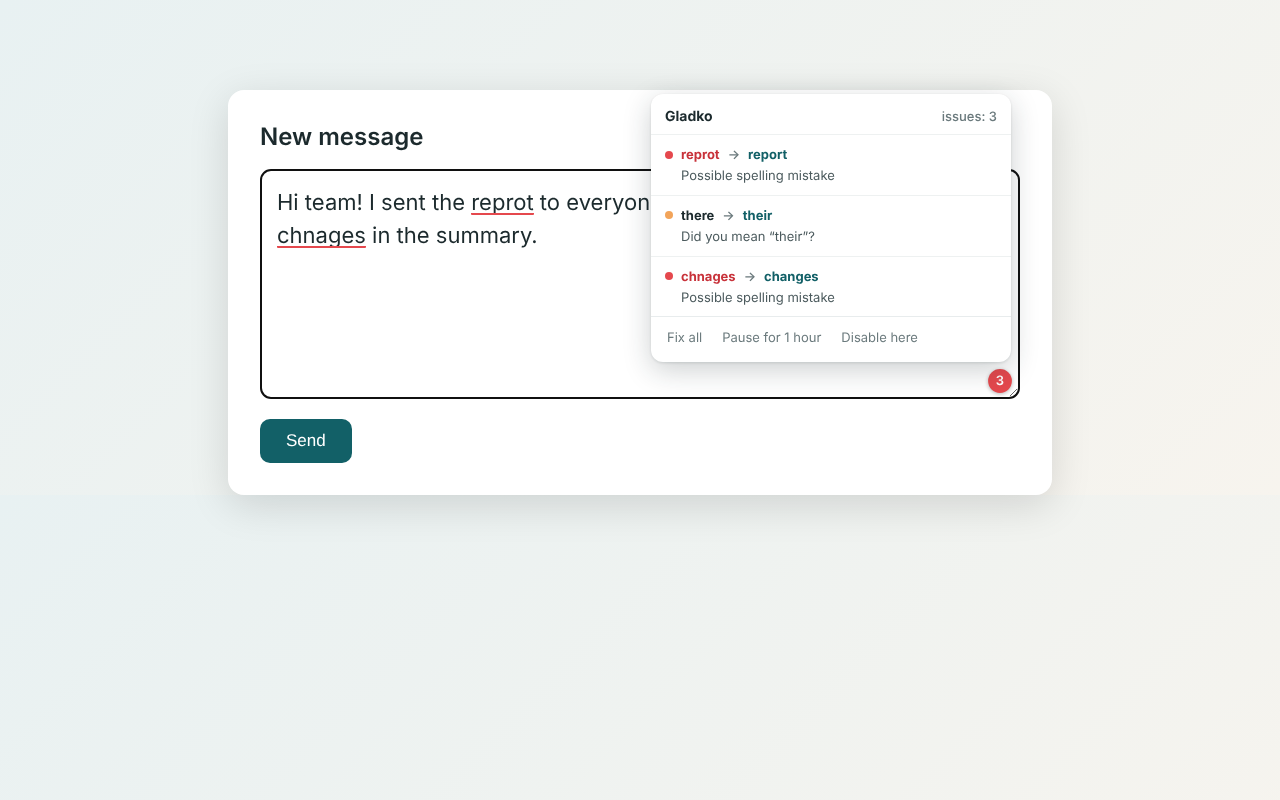
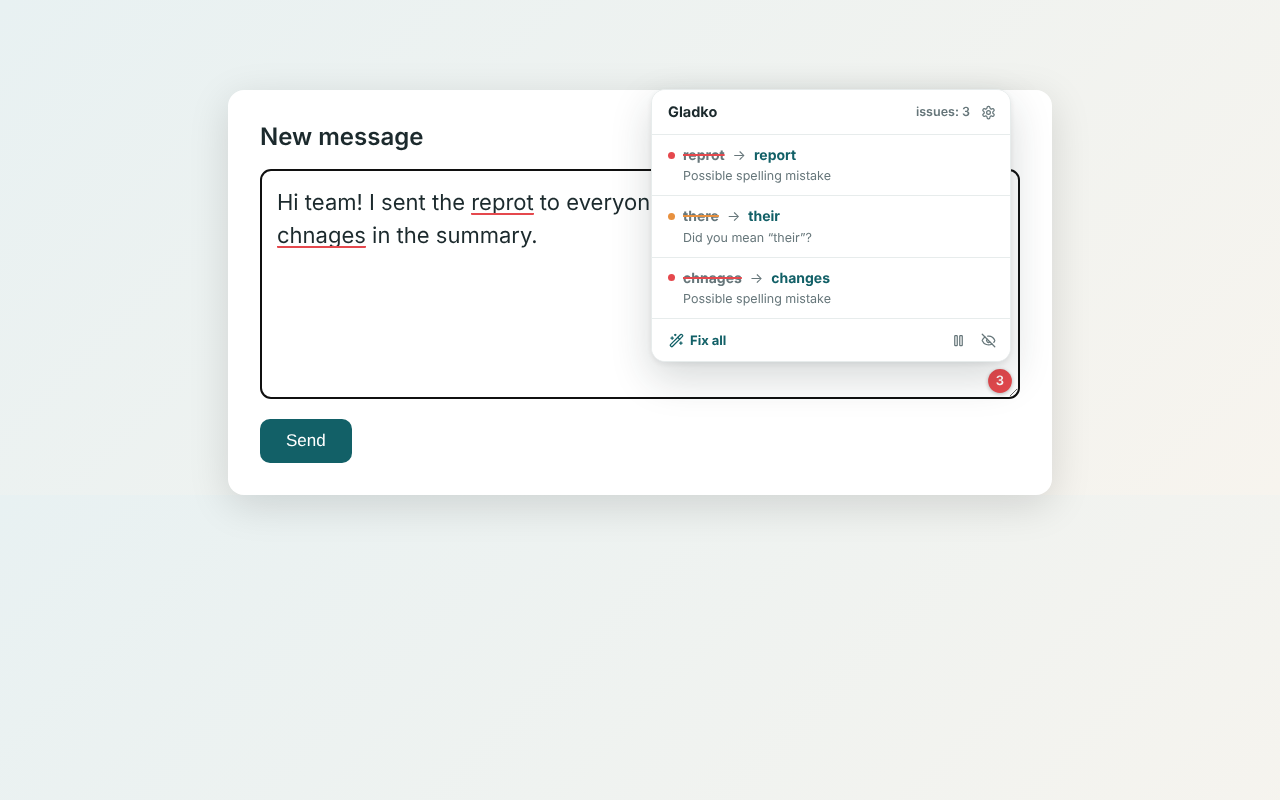
Redesign in-page suggestion card and issues panel
Struck-through mistake with a prominent fix, alternatives listed separately,
coloured issue-type tag and accent strip, close button, Lucide icons,
compact panel footer, dark theme. Exclude SVG internals from the CSS reset.

Claude-Session: https://claude.ai/code/session_01MjzGZ8b5WNkhgQCuEtsLyZ

diff --git a/src/content.css b/src/content.css
@@ -1,5 +1,6 @@
 /* Everything lives under .gl-host and is reset first, so page styles can't leak in. */
-.gl-host, .gl-host * { all: unset; box-sizing: border-box; }
+/* SVG internals are excluded: in SVG2 `d`, `r`, `cx`… are CSS properties and `all: unset` would erase the icons. */
+.gl-host, .gl-host *:not(svg):not(svg *) { all: unset; box-sizing: border-box; }
 .gl-host { position: fixed !important; left: 0 !important; top: 0 !important; width: 0 !important; height: 0 !important; z-index: 2147483647 !important; pointer-events: none !important; }
 
 .gl-host .gl-mirror { position: absolute; visibility: hidden; overflow: hidden; display: block; }
@@ -23,52 +24,85 @@
 .gl-host .gl-badge svg { display: block; width: 12px; height: 12px; }
 @keyframes gl-spin { to { transform: rotate(360deg); } }
 
-/* card + panel */
-.gl-host .gl-card, .gl-host .gl-panel { position: absolute; display: block; pointer-events: auto; background: #fff; color: #1c2a2d; border-radius: 12px; box-shadow: 0 8px 28px rgba(28, 42, 45, .22), 0 1px 3px rgba(28, 42, 45, .12); font: 14px/1.45 system-ui, -apple-system, "Segoe UI", sans-serif; animation: gl-in .12s ease-out; }
-.gl-host .gl-card { width: 320px; padding: 12px 14px 0; }
-.gl-host .gl-panel { width: 360px; max-height: 380px; overflow-y: auto; padding: 4px 0; }
-@keyframes gl-in { from { opacity: 0; transform: translateY(-4px); } }
-
-.gl-host .gl-head { display: flex; align-items: center; gap: 8px; font-size: 11px; font-weight: 600; letter-spacing: .04em; text-transform: uppercase; color: #6b7a7d; }
-.gl-host .gl-dot { display: block; width: 8px; height: 8px; border-radius: 50%; flex: none; }
-.gl-host .gl-dot.gl-spell { background: #e5484d; }
-.gl-host .gl-dot.gl-grammar { background: #f2a45a; }
-.gl-host .gl-dot.gl-style { background: #3e8ed0; }
-.gl-host .gl-msg { display: block; margin: 6px 0 10px; }
-.gl-host .gl-sugs { display: flex; flex-wrap: wrap; gap: 6px; margin-bottom: 12px; }
-.gl-host .gl-sug { display: inline-block; padding: 5px 12px; border-radius: 8px; border: 1px solid #c9dcdd; background: #f1f7f7; color: #126067; font-weight: 600; cursor: pointer; transition: background-color .1s, color .1s; }
-.gl-host .gl-sug:hover { background: #126067; border-color: #126067; color: #fff; }
-.gl-host .gl-sug.gl-main { background: #126067; border-color: #126067; color: #fff; }
-.gl-host .gl-sug.gl-main:hover { background: #0d4a50; }
-.gl-host .gl-none { display: block; color: #6b7a7d; font-size: 13px; margin-bottom: 12px; }
-.gl-host .gl-foot { display: flex; gap: 4px; margin: 0 -14px; padding: 6px 8px; border-top: 1px solid #e8eced; }
-.gl-host .gl-link { display: inline-flex; align-items: center; gap: 6px; padding: 5px 8px; border-radius: 6px; color: #6b7a7d; font-size: 13px; cursor: pointer; }
-.gl-host .gl-link:hover { background: #f1f4f4; color: #1c2a2d; }
-.gl-host .gl-link svg { display: block; width: 14px; height: 14px; }
-
-.gl-host .gl-ptitle { display: flex; align-items: center; justify-content: space-between; padding: 8px 14px; font-weight: 700; }
-.gl-host .gl-ptitle span { display: inline; font-weight: 500; color: #6b7a7d; font-size: 13px; }
-.gl-host .gl-item { display: block; padding: 10px 14px; border-top: 1px solid #eef1f1; cursor: pointer; }
-.gl-host .gl-item:hover { background: #f7f9f9; }
-.gl-host .gl-item .gl-head { text-transform: none; letter-spacing: 0; font-size: 13px; color: #1c2a2d; }
-.gl-host .gl-item .gl-word { display: inline; font-weight: 700; }
-.gl-host .gl-item .gl-word.gl-spell { color: #c8323a; }
-.gl-host .gl-item .gl-arrow { display: inline; color: #6b7a7d; }
-.gl-host .gl-item .gl-fix { display: inline; font-weight: 700; color: #126067; }
-.gl-host .gl-item .gl-msg { margin: 2px 0 0 16px; font-size: 13px; color: #4b5a5d; }
-.gl-host .gl-empty { display: block; padding: 18px 14px; color: #6b7a7d; text-align: center; }
-
-@media (prefers-color-scheme: dark) {
-  .gl-host .gl-card, .gl-host .gl-panel { background: #1f2b2e; color: #e6eeef; box-shadow: 0 8px 28px rgba(0, 0, 0, .5); }
-  .gl-host .gl-sug { background: #24393c; border-color: #2f4c50; color: #8fd0d5; }
-  .gl-host .gl-foot, .gl-host .gl-item { border-color: #2c3a3d; }
-  .gl-host .gl-link:hover, .gl-host .gl-item:hover { background: #26363a; color: #e6eeef; }
-  .gl-host .gl-item .gl-head { color: #e6eeef; }
-  .gl-host .gl-item .gl-msg { color: #a9b7ba; }
-  .gl-host .gl-item .gl-fix { color: #8fd0d5; }
+/* ---------- design tokens ---------- */
+.gl-host {
+  --gl-bg: #ffffff; --gl-ink: #1c2a2d; --gl-muted: #66767a; --gl-line: #e7ecec; --gl-soft: #f3f6f6;
+  --gl-brand: #126067; --gl-brand-hover: #0d4a50; --gl-brand-soft: #e2f0f0; --gl-brand-text: #126067;
+  --gl-spell: #e5484d; --gl-grammar: #e8913f; --gl-style: #3e8ed0;
+  --gl-spell-soft: #fdecec; --gl-grammar-soft: #fdf1e4; --gl-style-soft: #e8f2fb;
+  --gl-shadow: 0 16px 40px rgba(28, 42, 45, .18), 0 2px 6px rgba(28, 42, 45, .08);
 }
-.gl-host .gl-panel .gl-foot { margin: 0; flex-wrap: wrap; }
-.gl-host .gl-ptitle .gl-pright { display: inline-flex; align-items: center; gap: 10px; }
-.gl-host .gl-ptitle .gl-gear { display: inline-grid; place-items: center; width: 24px; height: 24px; border-radius: 6px; font-size: 15px; color: #6b7a7d; cursor: pointer; }
-.gl-host .gl-ptitle .gl-gear:hover { background: #f1f4f4; color: #1c2a2d; }
-@media (prefers-color-scheme: dark) { .gl-host .gl-ptitle .gl-gear:hover { background: #26363a; color: #e6eeef; } }
+@media (prefers-color-scheme: dark) {
+  .gl-host {
+    --gl-bg: #1b2528; --gl-ink: #e6eeef; --gl-muted: #9fb0b3; --gl-line: #2c3a3d; --gl-soft: #233033;
+    --gl-brand: #2b8c94; --gl-brand-hover: #35a2ab; --gl-brand-soft: #173a3d; --gl-brand-text: #7fd0d6;
+    --gl-spell: #ff6b6f; --gl-grammar: #f2a45a; --gl-style: #6aaee6;
+    --gl-spell-soft: #3d2022; --gl-grammar-soft: #3a2c1c; --gl-style-soft: #1c2f40;
+    --gl-shadow: 0 16px 40px rgba(0, 0, 0, .5), 0 2px 6px rgba(0, 0, 0, .3);
+  }
+}
+
+/* icons (Lucide) */
+.gl-host svg.gl-i { display: block; width: 15px; height: 15px; flex: none; fill: none; stroke: currentColor; stroke-width: 2; stroke-linecap: round; stroke-linejoin: round; }
+
+/* ---------- card + panel shell ---------- */
+.gl-host .gl-card, .gl-host .gl-panel { position: absolute; display: block; pointer-events: auto; background: var(--gl-bg); color: var(--gl-ink); border-radius: 14px; border: 1px solid var(--gl-line); box-shadow: var(--gl-shadow); font: 14px/1.45 system-ui, -apple-system, "Segoe UI", Roboto, sans-serif; animation: gl-in .14s cubic-bezier(.2, .8, .3, 1); overflow: hidden; }
+@keyframes gl-in { from { opacity: 0; transform: translateY(-6px) scale(.98); } }
+
+/* ---------- suggestion card ---------- */
+.gl-host .gl-card { width: 312px; }
+.gl-host .gl-card::before { content: ""; position: absolute; left: 0; top: 0; bottom: 0; width: 3px; background: var(--gl-spell); }
+.gl-host .gl-card.gl-grammar::before { background: var(--gl-grammar); }
+.gl-host .gl-card.gl-style::before { background: var(--gl-style); }
+
+.gl-host .gl-head { display: flex; align-items: center; gap: 8px; padding: 10px 10px 0 16px; }
+.gl-host .gl-spacer { display: block; flex: 1; }
+.gl-host .gl-tag { display: inline-flex; align-items: center; gap: 6px; height: 22px; padding: 0 9px; border-radius: 999px; font-size: 11.5px; font-weight: 700; letter-spacing: .02em; background: var(--gl-spell-soft); color: var(--gl-spell); }
+.gl-host .gl-tag.gl-grammar { background: var(--gl-grammar-soft); color: var(--gl-grammar); }
+.gl-host .gl-tag.gl-style { background: var(--gl-style-soft); color: var(--gl-style); }
+.gl-host .gl-dot { display: block; width: 7px; height: 7px; border-radius: 50%; flex: none; background: var(--gl-spell); }
+.gl-host .gl-dot.gl-grammar { background: var(--gl-grammar); }
+.gl-host .gl-dot.gl-style { background: var(--gl-style); }
+.gl-host .gl-icon-btn { display: inline-grid; place-items: center; width: 28px; height: 28px; border-radius: 8px; color: var(--gl-muted); cursor: pointer; transition: background-color .12s, color .12s; }
+.gl-host .gl-icon-btn:hover { background: var(--gl-soft); color: var(--gl-ink); }
+
+.gl-host .gl-body { display: block; padding: 10px 16px 14px; }
+.gl-host .gl-fixline { display: flex; align-items: center; flex-wrap: wrap; gap: 10px; }
+.gl-host .gl-wrong { display: inline; font-size: 16px; font-weight: 600; color: var(--gl-muted); text-decoration: line-through; text-decoration-color: var(--gl-spell); text-decoration-thickness: 2px; }
+.gl-host .gl-wrong.gl-grammar { text-decoration-color: var(--gl-grammar); }
+.gl-host .gl-wrong.gl-style { text-decoration-color: var(--gl-style); }
+.gl-host .gl-to { display: inline; color: var(--gl-muted); font-size: 15px; }
+.gl-host .gl-msg { display: block; margin-top: 8px; color: var(--gl-muted); font-size: 13px; }
+.gl-host .gl-alt { display: block; margin: 12px 0 6px; font-size: 11.5px; font-weight: 700; letter-spacing: .04em; text-transform: uppercase; color: var(--gl-muted); }
+.gl-host .gl-sugs { display: flex; flex-wrap: wrap; gap: 6px; }
+.gl-host .gl-sug { display: inline-flex; align-items: center; height: 32px; padding: 0 12px; border-radius: 9px; border: 1px solid var(--gl-line); background: var(--gl-soft); color: var(--gl-brand-text); font-size: 14px; font-weight: 600; cursor: pointer; transition: background-color .12s, border-color .12s, color .12s, transform .06s; }
+.gl-host .gl-sug:hover { border-color: var(--gl-brand); background: var(--gl-brand-soft); }
+.gl-host .gl-sug:active { transform: translateY(1px); }
+.gl-host .gl-sug.gl-main { height: 34px; padding: 0 16px; font-size: 16px; background: var(--gl-brand); border-color: var(--gl-brand); color: #fff; box-shadow: 0 2px 6px color-mix(in srgb, var(--gl-brand) 35%, transparent); }
+.gl-host .gl-sug.gl-main:hover { background: var(--gl-brand-hover); border-color: var(--gl-brand-hover); }
+.gl-host .gl-none { display: block; margin-top: 10px; color: var(--gl-muted); font-size: 13px; }
+
+.gl-host .gl-foot { display: flex; align-items: center; gap: 2px; padding: 6px 8px; border-top: 1px solid var(--gl-line); background: color-mix(in srgb, var(--gl-soft) 60%, transparent); }
+.gl-host .gl-link { display: inline-flex; align-items: center; gap: 6px; height: 30px; padding: 0 9px; border-radius: 8px; color: var(--gl-muted); font-size: 13px; font-weight: 500; cursor: pointer; white-space: nowrap; transition: background-color .12s, color .12s; }
+.gl-host .gl-link:hover { background: var(--gl-soft); color: var(--gl-ink); }
+.gl-host .gl-link.gl-strong { color: var(--gl-brand-text); font-weight: 650; }
+.gl-host .gl-link.gl-strong:hover { background: var(--gl-brand-soft); }
+
+/* ---------- issues panel (badge click) and selection report ---------- */
+.gl-host .gl-panel { width: 360px; max-height: 420px; overflow-y: auto; }
+.gl-host .gl-ptitle { display: flex; align-items: center; justify-content: space-between; gap: 8px; padding: 8px 8px 8px 16px; font-weight: 750; font-size: 14.5px; position: sticky; top: 0; background: var(--gl-bg); border-bottom: 1px solid var(--gl-line); }
+.gl-host .gl-ptitle .gl-pright { display: inline-flex; align-items: center; gap: 4px; font-weight: 600; font-size: 12.5px; color: var(--gl-muted); }
+.gl-host .gl-item { display: block; padding: 10px 16px; border-top: 1px solid var(--gl-line); cursor: pointer; transition: background-color .1s; }
+.gl-host .gl-ptitle + .gl-item { border-top: 0; }
+.gl-host .gl-item:hover { background: var(--gl-soft); }
+.gl-host .gl-item .gl-head { padding: 0; gap: 8px; font-size: 14px; }
+.gl-host .gl-item .gl-word { display: inline; font-weight: 650; color: var(--gl-muted); text-decoration: line-through; text-decoration-color: var(--gl-spell); text-decoration-thickness: 2px; }
+.gl-host .gl-item .gl-word.gl-grammar { text-decoration-color: var(--gl-grammar); }
+.gl-host .gl-item .gl-word.gl-style { text-decoration-color: var(--gl-style); }
+.gl-host .gl-item .gl-arrow { display: inline; color: var(--gl-muted); }
+.gl-host .gl-item .gl-fix { display: inline; font-weight: 700; color: var(--gl-brand-text); }
+.gl-host .gl-item .gl-msg { margin: 2px 0 0 15px; font-size: 12.5px; }
+.gl-host .gl-empty { display: block; padding: 22px 16px; color: var(--gl-muted); text-align: center; }
+.gl-host .gl-panel .gl-foot { flex-wrap: nowrap; position: sticky; bottom: 0; background: var(--gl-bg); }
+
+@media (prefers-reduced-motion: reduce) { .gl-host .gl-card, .gl-host .gl-panel { animation: none; } }

diff --git a/src/content.js b/src/content.js
@@ -289,35 +289,62 @@
   }
 
   // ---------- card ----------
+  const ic = (name) => GlIcons.make(name, "gl-i");
+  function link(icon, label, onClick, cls = "gl-link") {
+    const el = mk("span", cls);
+    el.append(ic(icon), mk("span", null, label));
+    el.addEventListener("click", onClick);
+    return el;
+  }
+
   function openCard(m) {
     closeCard();
     closePanel();
     cardMatch = m;
     const k = kind(m);
-    card = mk("div", "gl-card");
+    card = mk("div", "gl-card " + k.cls);
+    card.setAttribute("role", "dialog");
     card.addEventListener("mousedown", (e) => e.preventDefault());
+
     const head = mk("div", "gl-head");
-    head.append(mk("span", "gl-dot " + k.cls), mk("span", null, m.category || k.label));
+    const tag = mk("span", "gl-tag " + k.cls);
+    tag.append(mk("span", "gl-dot " + k.cls), mk("span", null, k.label));
+    const close = mk("span", "gl-icon-btn");
+    close.title = tr("close");
+    close.append(ic("x"));
+    close.addEventListener("click", closeCard);
+    head.append(tag, mk("span", "gl-spacer"), close);
+
+    const fix = mk("div", "gl-fixline");
+    const w = word(m).trim();
+    if (w) fix.append(mk("span", "gl-wrong " + k.cls, w));
+    if (w && m.replacements.length) fix.append(mk("span", "gl-to", "→"));
     const sugs = mk("div", "gl-sugs");
     m.replacements.forEach((rep, i) => {
       const b = mk("span", "gl-sug" + (i === 0 ? " gl-main" : ""), rep === "" ? tr("remove") : rep);
+      b.title = tr("applyFix");
       b.addEventListener("click", () => apply(m, rep));
-      sugs.append(b);
+      (i === 0 ? fix : sugs).append(b);
     });
+
+    const body = mk("div", "gl-body");
+    body.append(fix, mk("div", "gl-msg", m.message));
+    if (m.replacements.length > 1) {
+      body.append(mk("div", "gl-alt", tr("otherOptions")), sugs);
+    } else if (!m.replacements.length) {
+      body.append(mk("div", "gl-none", tr("noSuggestions")));
+    }
+
     const foot = mk("div", "gl-foot");
-    const skip = mk("span", "gl-link", tr("skip"));
-    skip.addEventListener("click", () => { ignored.add(ignoreKey(m)); refilter(); });
-    foot.append(skip);
+    foot.append(link("ban", tr("skip"), () => { ignored.add(ignoreKey(m)); refilter(); }));
     if (m.issueType === "misspelling") {
-      const add = mk("span", "gl-link", tr("addToDictionary"));
-      add.addEventListener("click", () => {
+      foot.append(link("bookplus", tr("addToDictionary"), () => {
         dictionary.add(word(m).toLowerCase());
         browser.storage.local.set({ dictionary: [...dictionary] });
         refilter();
-      });
-      foot.append(add);
+      }));
     }
-    card.append(head, mk("div", "gl-msg", m.message), m.replacements.length ? sugs : mk("div", "gl-none", tr("noSuggestions")), foot);
+    card.append(head, body, foot);
     host.append(card);
     draw();
   }
@@ -352,7 +379,8 @@
     panel.replaceChildren();
     const title = mk("div", "gl-ptitle", tr("extShortName"));
     const right = mk("span", "gl-pright", matches.length ? tr("panelCount", matches.length) : "");
-    const gear = mk("span", "gl-gear", "⚙");
+    const gear = mk("span", "gl-icon-btn");
+    gear.append(ic("settings"));
     gear.title = tr("popSettings");
     gear.addEventListener("click", () => browser.runtime.sendMessage({ type: "openOptions" }).catch(() => {}));
     right.append(gear);
@@ -373,15 +401,20 @@
     }
     const foot = mk("div", "gl-foot");
     if (matches.some((m) => m.replacements.length)) {
-      const all = mk("span", "gl-link", tr("fixAll"));
-      all.addEventListener("click", fixAll);
-      foot.append(all);
+      foot.append(link("wand", tr("fixAll"), fixAll, "gl-link gl-strong"));
     }
-    const pause = mk("span", "gl-link", tr("pauseHour"));
-    pause.addEventListener("click", () => browser.storage.local.set({ pausedUntil: Date.now() + 3600 * 1000 }));
-    const mute = mk("span", "gl-link", tr("muteSite"));
-    mute.addEventListener("click", () => browser.storage.local.set({ mutedSites: [...new Set([...mutedSites, location.hostname])] }));
-    foot.append(pause, mute);
+    const iconBtn = (icon, title, onClick) => {
+      const el = mk("span", "gl-icon-btn");
+      el.title = title;
+      el.append(ic(icon));
+      el.addEventListener("click", onClick);
+      return el;
+    };
+    foot.append(
+      mk("span", "gl-spacer"),
+      iconBtn("pause", tr("pauseHour"), () => browser.storage.local.set({ pausedUntil: Date.now() + 3600 * 1000 })),
+      iconBtn("eyeoff", tr("muteSite") + " (" + location.hostname + ")", () => browser.storage.local.set({ mutedSites: [...new Set([...mutedSites, location.hostname])] })),
+    );
     panel.append(foot);
   }
   function placePanel() {

diff --git a/src/icons.js b/src/icons.js
@@ -35,6 +35,10 @@ const GlIcons = (() => {
     chart: '<path d="M3 3v16a2 2 0 0 0 2 2h16" /><path d="M18 17V9" /><path d="M13 17V5" /><path d="M8 17v-3" />', // lucide: chart-column
     arrow: '<path d="M5 12h14" /><path d="m12 5 7 7-7 7" />', // lucide: arrow-right
     pin: '<path d="M12 17v5" /><path d="M9 10.76a2 2 0 0 1-1.11 1.79l-1.78.9A2 2 0 0 0 5 15.24V16a1 1 0 0 0 1 1h12a1 1 0 0 0 1-1v-.76a2 2 0 0 0-1.11-1.79l-1.78-.9A2 2 0 0 1 15 10.76V7a1 1 0 0 1 1-1 2 2 0 0 0 0-4H8a2 2 0 0 0 0 4 1 1 0 0 1 1 1z" />', // lucide: pin
+    ban: '<circle cx="12" cy="12" r="10" /><path d="m4.9 4.9 14.2 14.2" />', // lucide: ban
+    bookplus: '<path d="M12 7v6" /><path d="M4 19.5v-15A2.5 2.5 0 0 1 6.5 2H19a1 1 0 0 1 1 1v18a1 1 0 0 1-1 1H6.5a1 1 0 0 1 0-5H20" /><path d="M9 10h6" />', // lucide: book-plus
+    eyeoff: '<path d="M10.733 5.076a10.744 10.744 0 0 1 11.205 6.575 1 1 0 0 1 0 .696 10.747 10.747 0 0 1-1.444 2.49" /><path d="M14.084 14.158a3 3 0 0 1-4.242-4.242" /><path d="M17.479 17.499a10.75 10.75 0 0 1-15.417-5.151 1 1 0 0 1 0-.696 10.75 10.75 0 0 1 4.446-5.143" /><path d="m2 2 20 20" />', // lucide: eye-off
+    settings: '<path d="M12.22 2h-.44a2 2 0 0 0-2 2v.18a2 2 0 0 1-1 1.73l-.43.25a2 2 0 0 1-2 0l-.15-.08a2 2 0 0 0-2.73.73l-.22.38a2 2 0 0 0 .73 2.73l.15.1a2 2 0 0 1 1 1.72v.51a2 2 0 0 1-1 1.74l-.15.09a2 2 0 0 0-.73 2.73l.22.38a2 2 0 0 0 2.73.73l.15-.08a2 2 0 0 1 2 0l.43.25a2 2 0 0 1 1 1.73V20a2 2 0 0 0 2 2h.44a2 2 0 0 0 2-2v-.18a2 2 0 0 1 1-1.73l.43-.25a2 2 0 0 1 2 0l.15.08a2 2 0 0 0 2.73-.73l.22-.39a2 2 0 0 0-.73-2.73l-.15-.08a2 2 0 0 1-1-1.74v-.5a2 2 0 0 1 1-1.74l.15-.09a2 2 0 0 0 .73-2.73l-.22-.38a2 2 0 0 0-2.73-.73l-.15.08a2 2 0 0 1-2 0l-.43-.25a2 2 0 0 1-1-1.73V4a2 2 0 0 0-2-2z" /><circle cx="12" cy="12" r="3" />', // lucide: settings
   };
   const parser = new DOMParser();
   function make(name, cls = "i") {

diff --git a/CHANGELOG.md b/CHANGELOG.md
@@ -10,7 +10,9 @@
 - Индикатор на значке, когда проверка выключена или на паузе.
 - Статистика исправлений и проверок (хранится только в браузере).
 - Тёмная тема и адаптивная вёрстка для всех экранов.
-- Кнопка настроек в панели замечаний.
+- Новая карточка исправления: ошибочное слово зачёркнуто, крупная кнопка исправления, другие варианты отдельно, цветная метка типа ошибки, кнопка закрытия, иконки.
+- Обновлённая панель замечаний: «Исправить всё», пауза и отключение на сайте компактными иконками, кнопка настроек.
+- Иконки Lucide во всём интерфейсе.
 
 ## [0.6.0] — 2026-11-08
 ### Добавлено

diff --git a/README.md b/README.md
@@ -17,6 +17,9 @@
 
 <div align="center">
 <img src="docs/img/ru-2-suggestion.png" alt="Карточка с исправлением" width="88%">
+<br><br>
+<img src="docs/img/ui-card.png" alt="Карточка исправления" width="42%">&nbsp;
+<img src="docs/img/ui-card-dark.png" alt="Карточка исправления, тёмная тема" width="42%">
 </div>
 
 ## ✨ Возможности
